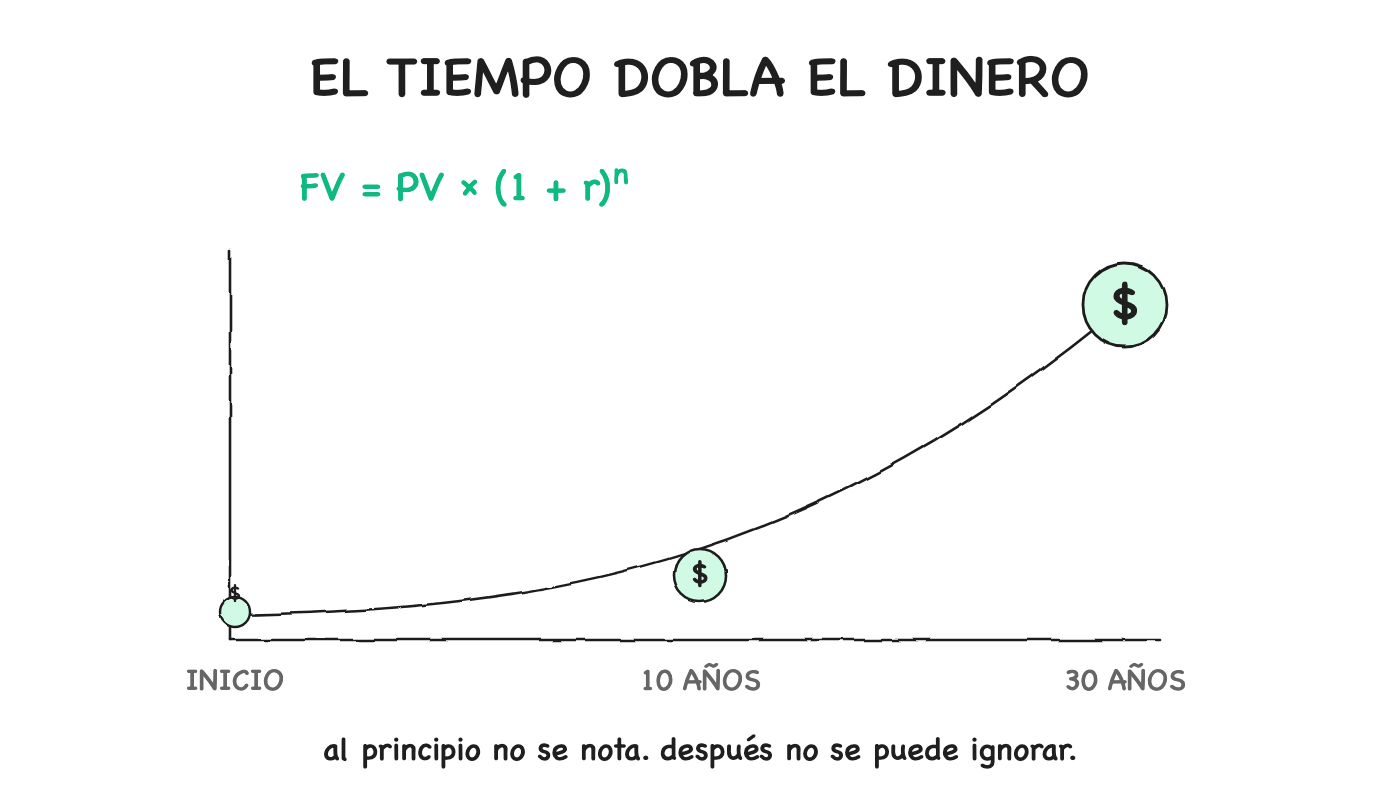
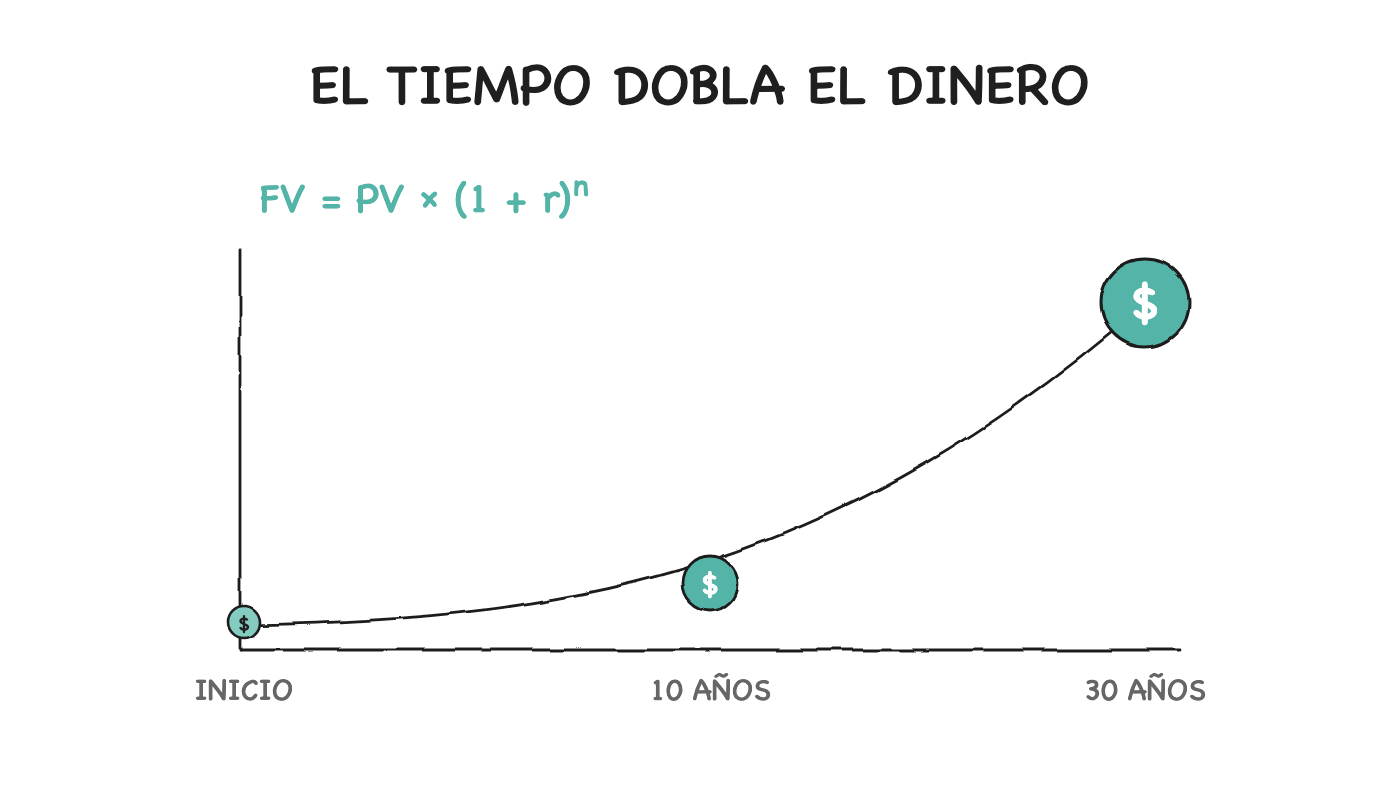
Artículo 004 — iteración 3 de sketches: (1) fuera la figura de portada, (2) eq5 banda real alineada y erosionada completa, (3) eq3 rediseñada sin cifras (bloque futuro grande vs presente pequeño, eje t, 'hoy'/'3 años', título 'se encoge hoy'), (4) paleta VIVA de Growth by Visuals (teal #54b4a8, azul

diff --git a/BrAIn/cinco-ecuaciones.html b/BrAIn/cinco-ecuaciones.html
@@ -291,11 +291,6 @@
   </ul>
   <p>Cinco fórmulas. Cero jerga. El 90% de toda decisión financiera honesta.</p>
 
-  <figure class="fig">
-    <img src="assets/portada.png" alt="Las cinco ecuaciones — la matemática que gobierna tu dinero">
-    <figcaption>La matemática que gobierna tu dinero</figcaption>
-  </figure>
-
   <div class="divider"></div>
 
   <h2><span class="n">ECUACIÓN 01</span>El tiempo dobla el dinero</h2>
